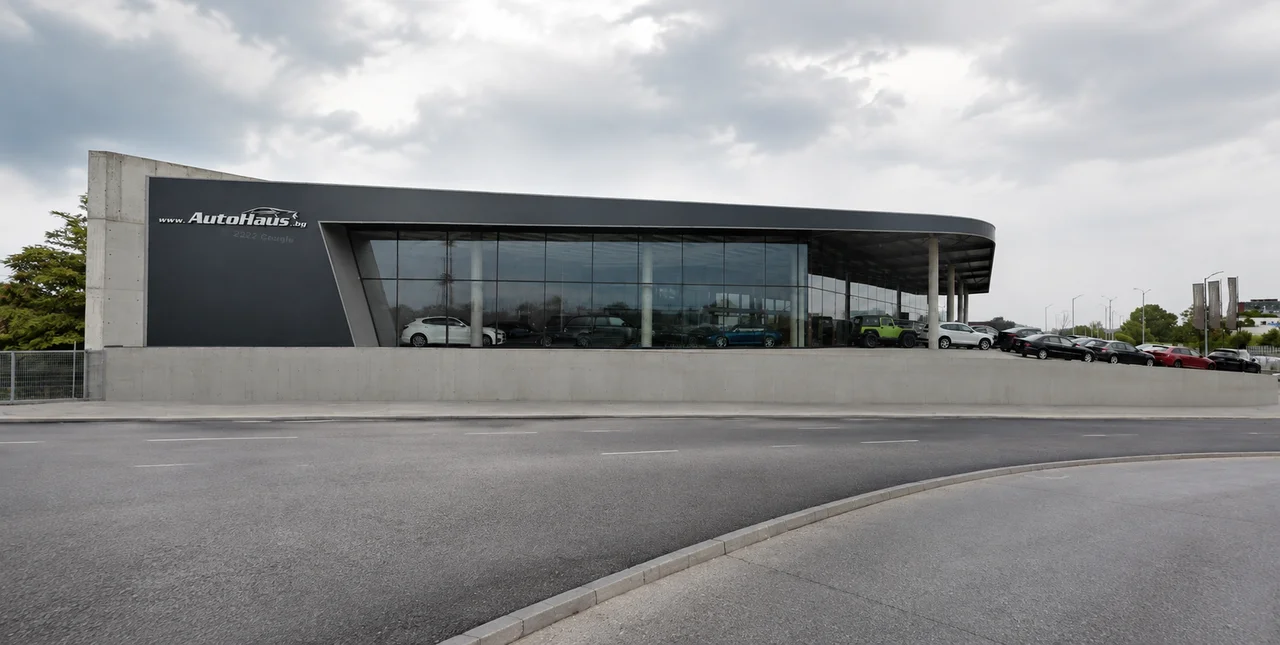
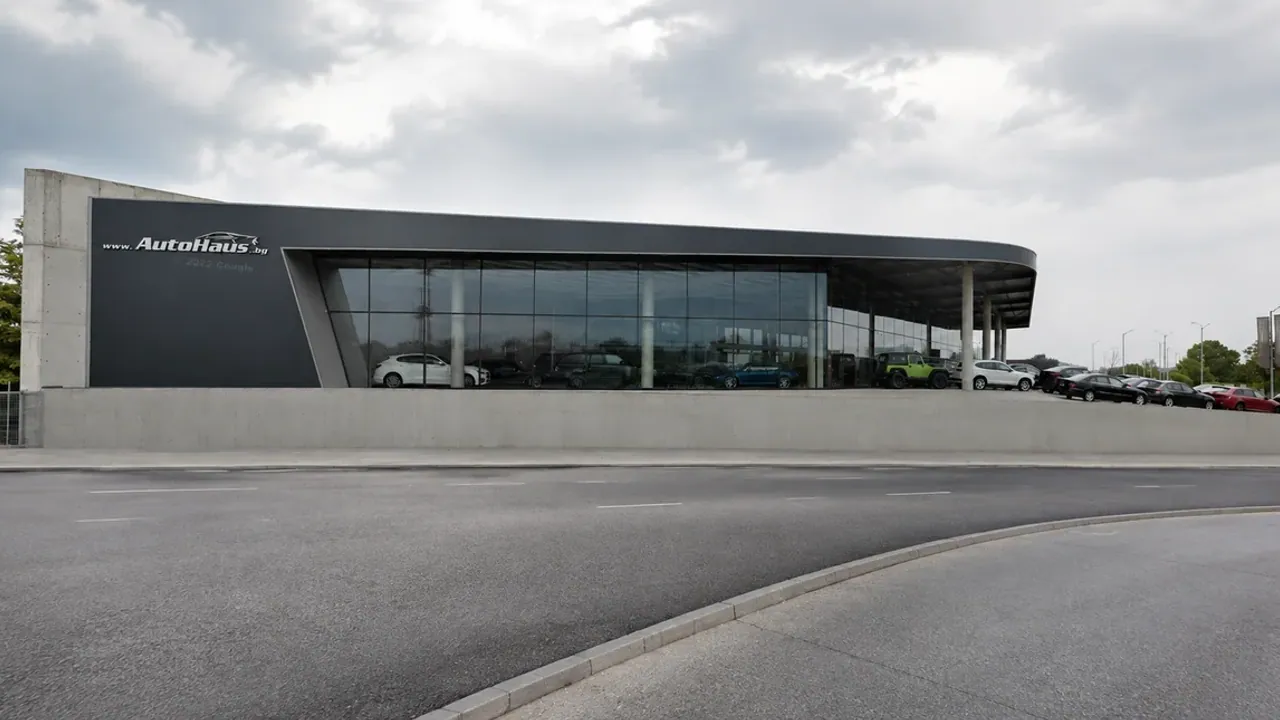
Crop hero complex photo to standard landscape ratio

diff --git a/index.html b/index.html
@@ -341,11 +341,11 @@
       </div>
 
       <div class="stage-item is-active" data-i="0">
-        <div class="stage-bg"><img width="320" height="161" decoding="sync" alt="" aria-hidden="true" fetchpriority="high" src="img/outside_autohaus-320.jpg"></div>
+        <div class="stage-bg"><img width="320" height="180" decoding="sync" alt="" aria-hidden="true" fetchpriority="high" src="img/outside_autohaus-320.jpg"></div>
         <div class="stage-box"><div class="stage-frame">
           <div class="stage-media">
-            <img class="stage-media-fill" width="320" height="161" decoding="async" alt="" aria-hidden="true" src="img/outside_autohaus-320.jpg">
-            <picture><source type="image/webp" srcset="img/outside_autohaus-768.webp 768w, img/outside_autohaus-1280.webp 1280w, img/outside_autohaus-1920.webp 1920w" sizes="(min-width:1920px) 88vw, (min-width:768px) 92vw, 100vw"><img width="1280" height="645" decoding="async" sizes="(min-width:1920px) 88vw, (min-width:768px) 92vw, 100vw" alt="Сградата на AutoHaus през деня" fetchpriority="high" src="img/outside_autohaus-1280.jpg" srcset="img/outside_autohaus-768.jpg 768w, img/outside_autohaus-1280.jpg 1280w, img/outside_autohaus-1920.jpg 1920w" style="object-position:20% 50%"></picture>
+            <img class="stage-media-fill" width="320" height="180" decoding="async" alt="" aria-hidden="true" src="img/outside_autohaus-320.jpg">
+            <picture><source type="image/webp" srcset="img/outside_autohaus-768.webp 768w, img/outside_autohaus-1280.webp 1280w, img/outside_autohaus-1920.webp 1920w" sizes="(min-width:1920px) 88vw, (min-width:768px) 92vw, 100vw"><img width="1280" height="720" decoding="async" sizes="(min-width:1920px) 88vw, (min-width:768px) 92vw, 100vw" alt="Сградата на AutoHaus през деня" fetchpriority="high" src="img/outside_autohaus-1280.jpg" srcset="img/outside_autohaus-768.jpg 768w, img/outside_autohaus-1280.jpg 1280w, img/outside_autohaus-1920.jpg 1920w" style="object-position:20% 50%"></picture>
             <div class="grad grad--t" aria-hidden="true"></div><div class="grad grad--b" aria-hidden="true"></div>
           </div>
           <div class="stage-content">

diff --git a/tools/public-cleanup.test.js b/tools/public-cleanup.test.js
@@ -102,7 +102,7 @@ test("first mobile hero backdrop does not restart its entrance after settling", 
   const html = fs.readFileSync(path.join(__dirname, "../index.html"), "utf8");
   const css = fs.readFileSync(path.join(__dirname, "../style.css"), "utf8");
   assert.match(html, /<link rel="preload" as="image" href="img\/outside_autohaus-320\.jpg" fetchpriority="high">/);
-  assert.match(html, /<div class="stage-bg"><img width="320" height="161" decoding="sync"/);
+  assert.match(html, /<div class="stage-bg"><img width="320" height="180" decoding="sync"/);
   assert.match(css, /@media\(max-width:767px\)\{\s*\.stage-item\[data-i="0"\] \.stage-bg\{animation:none\}/);
   assert.match(css, /\.stage:not\(\.is-settled\) \.stage-item\[data-i="0"\] \.stage-bg\{\s*transition:none;/);
   assert.match(css, /\.lo-fx \.stage-item\.is-active \.stage-bg\{opacity:1\}/);
